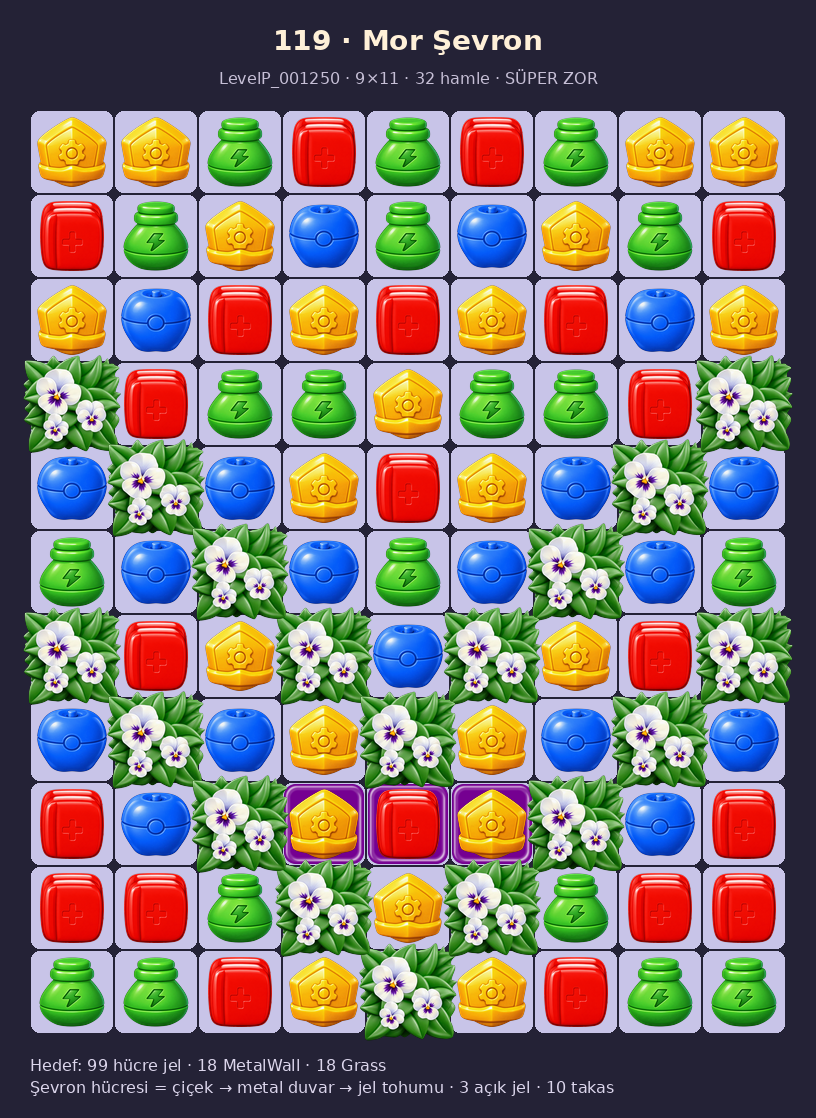
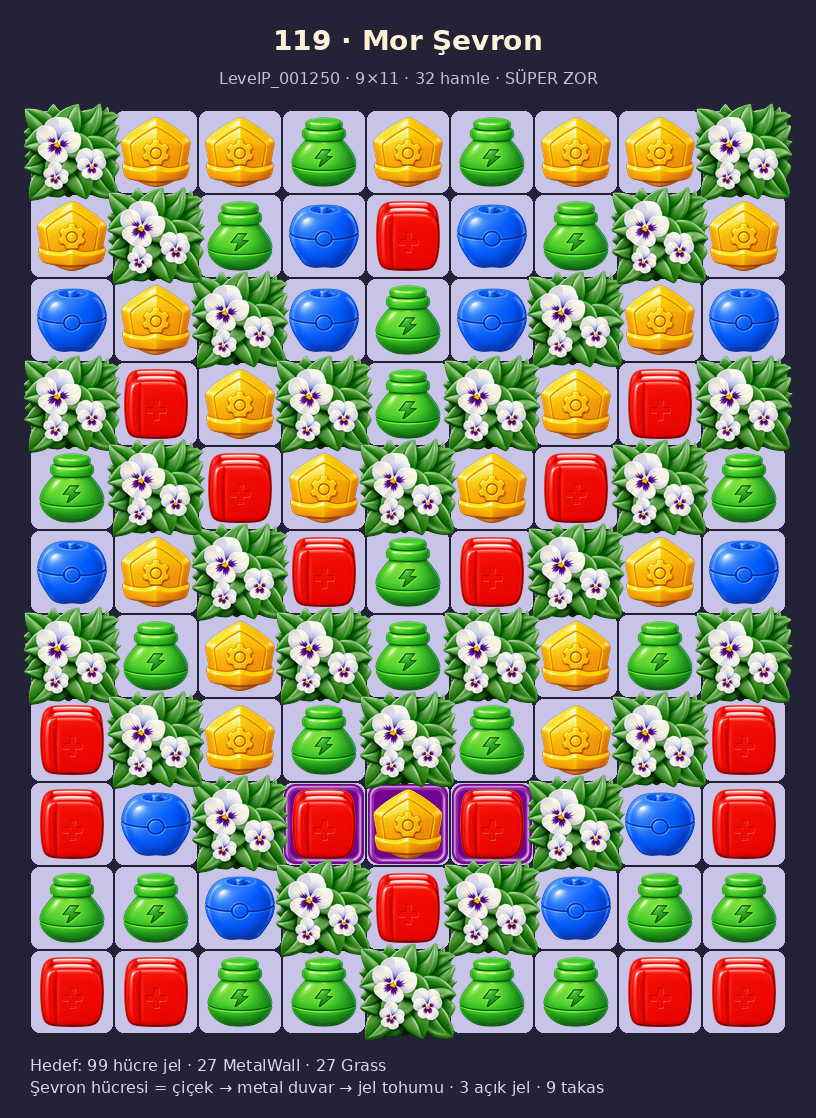
Level 119: add a third chevron on top (27 stacked cells)
v1 was beaten with 6 moves left. v2 adds a chevron starting on the top
row: 27 gel -> MetalWall -> GrassFlower stacks, goals 99 gel, 27
MetalWall, 27 Grass; 32 moves. Same asset GUID.

Claude-Session: https://claude.ai/code/session_011SM6jAozhV5f6ndTXzk3GM

diff --git a/Docs/LevelDesign/Level119-Mor-Sevron.md b/Docs/LevelDesign/Level119-Mor-Sevron.md
@@ -4,14 +4,14 @@
 
 ## Kompozisyon
 
-İki iç içe V (şevron). Şevron hücrelerinin her biri **3 katmanlı yığın**: en altta jel tohumu, üstünde tek hücrelik MetalWall, en üstte GrassFlower. Başlangıçta yalnız alt ortadaki 3 hücrede açık jel var. Renk paleti sade: yeşil çiçek, gri metal, mor jel.
+Üç iç içe V (şevron); üçüncüsü kullanıcı isteğiyle en üste eklendi (v2). Şevron hücrelerinin her biri **3 katmanlı yığın**: en altta jel tohumu, üstünde tek hücrelik MetalWall, en üstte GrassFlower. Başlangıçta yalnız alt ortadaki 3 hücrede açık jel var. Renk paleti sade: yeşil çiçek, gri metal, mor jel.
 
 ```text
-ooooooooo
-ooooooooo
-ooooooooo
 #ooooooo#
 o#ooooo#o
+oo#ooo#oo
+#oo#o#oo#
+o#oo#oo#o
 oo#ooo#oo
 #oo#o#oo#
 o#oo#oo#o
@@ -20,16 +20,16 @@ ooo#o#ooo
 oooo#oooo
 ```
 
-`#` = jel (46, `obstacles[]`) → MetalWall (56, `stackedObstacles`, 1×1 parça, origin = hücre) → GrassFlower (58, `stackedObstacles`). Tüm duvar kayıtları çiçek kayıtlarından önce sıralanır (`stackOrder` 1–18 duvar, 19–36 çiçek). `g` = açık jel üstünde normal taş, `o` = normal taş.
+`#` = jel (46, `obstacles[]`) → MetalWall (56, `stackedObstacles`, 1×1 parça, origin = hücre) → GrassFlower (58, `stackedObstacles`). Tüm duvar kayıtları çiçek kayıtlarından önce sıralanır (`stackOrder` 1–27 duvar, 28–54 çiçek). `g` = açık jel üstünde normal taş, `o` = normal taş.
 
 Önizleme: `Level119-Mor-Sevron.png` (çiçek örtüsü altındaki metal ve jel şemada görünmez; oyunda çim saydamdır).
 
 ## Hedefler ve zorluk
 
 - 99 hücre jel (tüm board): açık kaynak yalnız 3 hücre; şevron tohumları ancak çiçek, çim ve metal duvar kırılınca açılır ve ikinci yayılma cepheleri oluşur.
-- 18 MetalWall: tek hücreli parçalar; ardışık vuruş kuralı nedeniyle her biri 3 hamle üst üste vurulmalı.
-- 18 Grass (GrassFlower): çiçek + çim.
-- Yardımcı yok. Kapalı halka kullanılmadı: V şekli, her sütunun çapraz akışla beslenmesine izin verir.
+- 27 MetalWall: tek hücreli parçalar; ardışık vuruş kuralı nedeniyle her biri 3 hamle üst üste vurulmalı.
+- 27 Grass (GrassFlower): çiçek + çim.
+- Yardımcı yok. Kapalı halka kullanılmadı: V şekli, her sütunun çapraz akışla beslenmesine izin verir. Üst V'nin köşe hücreleri (0,0) ve (8,0) en dış sütunların üst girişini kapatır; o sütunlar çaprazdan dolar.
 
 ## Risk notu
 
@@ -37,4 +37,8 @@ Repo'da MetalWall'un `stackedObstacles` üzerinden jel üstüne yığıldığı 
 
 ## Statik kontrol
 
-Diziler, 18 jel tabanı + 36 üst katman kaydı, hedef adetleri ve katalog bağlantısı kontrol edildi. 78 açık taş simetrik sabitlendi; hazır üçlü/2×2 yok, 10 geçerli takas. Unity, bot, build veya simülasyon çalıştırılmadı.
+Diziler, 27 jel tabanı + 54 üst katman kaydı, hedef adetleri ve katalog bağlantısı kontrol edildi. 69 açık taş simetrik sabitlendi; hazır üçlü/2×2 yok, 9 geçerli takas. Unity, bot, build veya simülasyon çalıştırılmadı.
+
+## Revizyon
+
+v1 (iki şevron, 18 yığın) ilk denemede 6 hamle kala geçildi. v2'de üste üçüncü şevron eklendi: 27 yığın; hamle 32'de bırakıldı.
